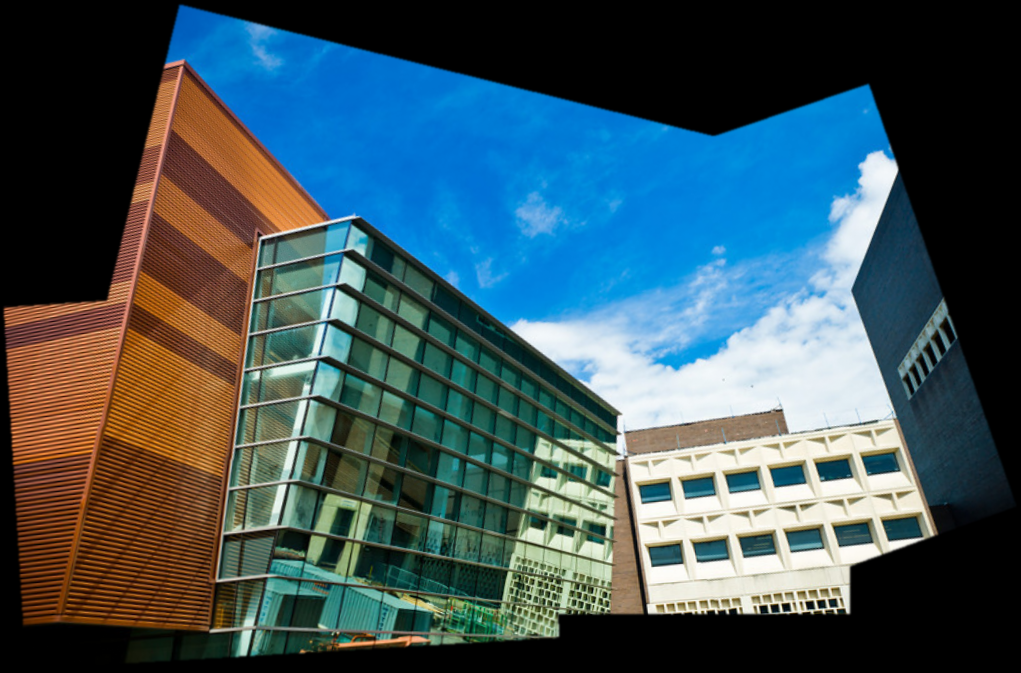
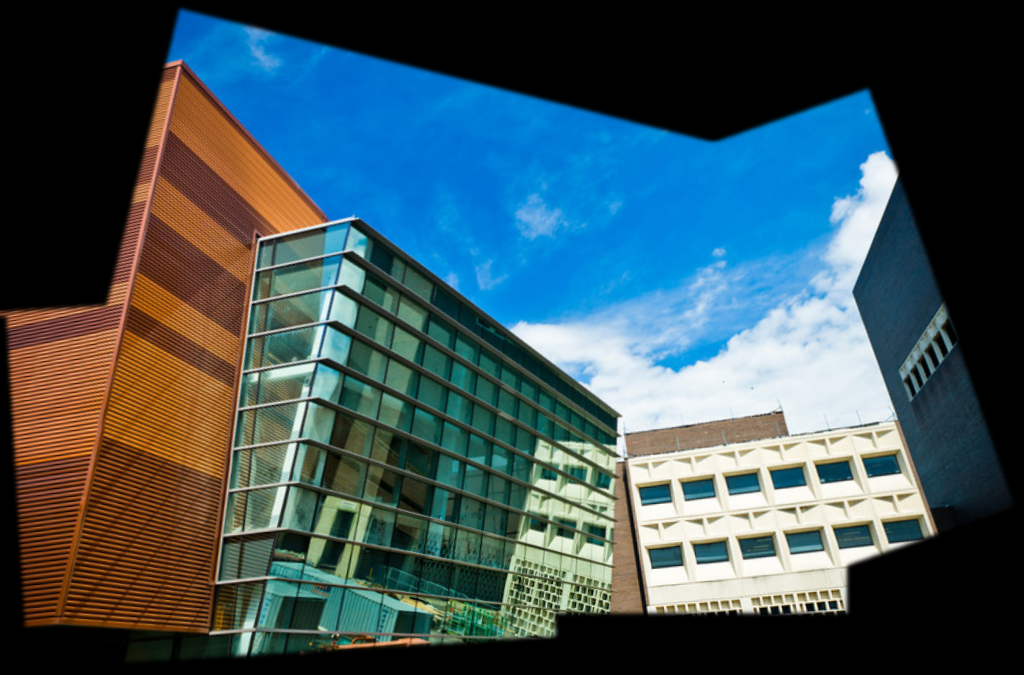
Swapped to a max spanning tree. it failed, now thresholding inliers add save back again

diff --git a/stitching.py b/stitching.py
@@ -229,8 +229,6 @@ def panorama(imgs: Dict[str, torch.Tensor]):
     max_h = 0
     max_w = 0
     matchalgo = "lightglue" # loftr
-    # save = False
-    # load = True
     # RANSAC params
     inl_th = 1
     max_iter = 200
@@ -250,117 +248,147 @@ def panorama(imgs: Dict[str, torch.Tensor]):
         max_w = max(max_w, v.shape[3])
 
     keys = list(imgs.keys())
+    edges = []
+    save = True
+    load = True
 
-    disk = K.feature.DISK.from_pretrained("depth").to(device)
-    for k, v in imgs.items():
-        features = disk(v.to(device), pad_if_not_divisible=True)[0]
-        data[k] = {
-            "points": (features.keypoints.cpu(), features.descriptors.cpu()),
-            "matches": 0
-        }
-    del disk
+    if save or not load:
+        disk = K.feature.DISK.from_pretrained("depth").to(device)
+        for k, v in imgs.items():
+            features = disk(v.to(device), pad_if_not_divisible=True)[0]
+            data[k] = {
+                "points": (features.keypoints.cpu(), features.descriptors.cpu()),
+                "matches": 0
+            }
+        del disk
 
-    if device == torch.device("mps"):
-        torch.mps.empty_cache()
+        if device == torch.device("mps"):
+            torch.mps.empty_cache()
 
-    matcher = K.feature.match_smnn
+        matcher = K.feature.match_smnn
 
-    if matchalgo == "loftr":
-        loftr = K.feature.LoFTR(pretrained='indoor_new')
-    else:
-        lg = K.feature.LightGlue("disk").eval().to(device)
+        if matchalgo == "loftr":
+            loftr = K.feature.LoFTR(pretrained='indoor_new')
+        else:
+            lg = K.feature.LightGlue("disk").eval().to(device)
 
-    ransac = K.geometry.RANSAC("homography", inl_th=inl_th, max_iter=max_iter, confidence=confidence, max_lo_iters=max_lo_iters)#.to(device)
-    print("descriptors done")
-    with torch.no_grad():
-        for i in range(len(keys)):
-            # if not save and load:
-            #     print("skipping ransac")
-            #     break
-            for j in range(i + 1, len(keys)):
+        ransac = K.geometry.RANSAC("homography", inl_th=inl_th, max_iter=max_iter, confidence=confidence, max_lo_iters=max_lo_iters)#.to(device)
+        print("descriptors done")
 
-                k1 = keys[i]
-                k2 = keys[j]
-                k1keypoints, k1descriptors = data[k1]["points"]
-                k2keypoints, k2descriptors = data[k2]["points"]
+        with torch.no_grad():
+            for i in range(len(keys)):
+                for j in range(i + 1, len(keys)):
 
-                # k1d = data[k1]["dedode"][2].squeeze(0)
-                # k2d = data[k2]["dedode"][2].squeeze(0)
+                    k1 = keys[i]
+                    k2 = keys[j]
+                    k1keypoints, k1descriptors = data[k1]["points"]
+                    k2keypoints, k2descriptors = data[k2]["points"]
 
-                match = matcher(k1descriptors, k2descriptors)
+                    # k1d = data[k1]["dedode"][2].squeeze(0)
+                    # k2d = data[k2]["dedode"][2].squeeze(0)
 
-                match_count = match[0].shape[0]
-                data[k1]["matches"] += match_count
-                data[k2]["matches"] += match_count
+                    match = matcher(k1descriptors, k2descriptors)
 
-                if match_count > 30:
-                    overlap[i, j] = 1
-                    overlap[j, i] = 1
-                    if matchalgo == "loftr":
-                        # print(f"\r{k1}, {k2} LoFTR starting. Prelim matches: {match_count}, img shape: {imgs[k1].shape}", end="", flush=True)
+                    match_count = match[0].shape[0]
+                    data[k1]["matches"] += match_count
+                    data[k2]["matches"] += match_count
+                    if match_count > 30:
+                        overlap[i, j] = 1
+                        overlap[j, i] = 1
+                        if matchalgo == "loftr":
+                            # print(f"\r{k1}, {k2} LoFTR starting. Prelim matches: {match_count}, img shape: {imgs[k1].shape}", end="", flush=True)
 
-                        inputdict = {
-                            "image0": K.color.rgb_to_grayscale(imgs[k1]),
-                            "image1": K.color.rgb_to_grayscale(imgs[k2])
-                        }
-                        points = loftr(inputdict)
-                        # print(f"\r{k1}, {k2} RANSAC starting. LoFTR Matches: {points['keypoints0'].shape}{'':>20}",  end="", flush=True)
+                            inputdict = {
+                                "image0": K.color.rgb_to_grayscale(imgs[k1]),
+                                "image1": K.color.rgb_to_grayscale(imgs[k2])
+                            }
+                            points = loftr(inputdict)
+                            # print(f"\r{k1}, {k2} RANSAC starting. LoFTR Matches: {points['keypoints0'].shape}{'':>20}",  end="", flush=True)
 
-                        homo = ransac(points["keypoints0"], points["keypoints1"])
+                            homo = ransac(points["keypoints0"], points["keypoints1"])
 
-                        # homo = ransac(points["keypoints0"].to(device), points["keypoints1"].to(device))
-                        # print(f"\r{k1}, {k2} RANSAC Finished. LoFTR matches: {points['keypoints0'].shape}, RANSAC inliers: {homo[1].sum()}",  end="", flush=True)
-                        # print()
+                            # homo = ransac(points["keypoints0"].to(device), points["keypoints1"].to(device))
+                            # print(f"\r{k1}, {k2} RANSAC Finished. LoFTR matches: {points['keypoints0'].shape}, RANSAC inliers: {homo[1].sum()}",  end="", flush=True)
+                            # print()
 
-                        data[k1][k2] = torch.linalg.inv(homo[0].cpu())
-                        data[k2][k1] = homo[0].cpu()
-                    else:
-                        # print(f"\r{k1}, {k2} LightGlue starting. Prelim matches: {match_count}, img shape: {imgs[k1].shape}", end="", flush=True)
+                            data[k1][k2] = torch.linalg.inv(homo[0].cpu())
+                            data[k2][k1] = homo[0].cpu()
+                        else:
+                            # print(f"\r{k1}, {k2} LightGlue starting. Prelim matches: {match_count}, img shape: {imgs[k1].shape}", end="", flush=True)
 
 
-                        inputdict = {
-                            "image0": {"keypoints": k1keypoints.unsqueeze(0).to(device), "descriptors": k1descriptors.unsqueeze(0).to(device), "image_size": torch.tensor([[imgs[k1].shape[3], imgs[k1].shape[2]]], device=device)},
-                            "image1": {"keypoints": k2keypoints.unsqueeze(0).to(device), "descriptors": k2descriptors.unsqueeze(0).to(device), "image_size": torch.tensor([[imgs[k2].shape[3], imgs[k2].shape[2]]], device=device)}
-                        }
+                            inputdict = {
+                                "image0": {"keypoints": k1keypoints.unsqueeze(0).to(device), "descriptors": k1descriptors.unsqueeze(0).to(device), "image_size": torch.tensor([[imgs[k1].shape[3], imgs[k1].shape[2]]], device=device)},
+                                "image1": {"keypoints": k2keypoints.unsqueeze(0).to(device), "descriptors": k2descriptors.unsqueeze(0).to(device), "image_size": torch.tensor([[imgs[k2].shape[3], imgs[k2].shape[2]]], device=device)}
+                            }
 
-                        out = lg(inputdict)
-                        match = out["matches"][0].cpu()
+                            out = lg(inputdict)
+                            match = out["matches"][0].cpu()
 
-                        k1matches = k1keypoints[match[:, 0]]
-                        k2matches = k2keypoints[match[:, 1]]
+                            k1matches = k1keypoints[match[:, 0]]
+                            k2matches = k2keypoints[match[:, 1]]
 
-                        # print(f"\r{k1}, {k2} LightGlue Finished. LightGlue matches: {k2matches.shape[0]}, img shape: {imgs[k1].shape}{'':>20}",  end="", flush=True)
+                            # print(f"\r{k1}, {k2} LightGlue Finished. LightGlue matches: {k2matches.shape[0]}, img shape: {imgs[k1].shape}{'':>20}",  end="", flush=True)
 
-                        homo = ransac(k1matches, k2matches)
+                            homo = ransac(k1matches, k2matches)
 
-                        # homo = ransac(k1matches.to(device), k2matches.to(device))
-                        # print(f"\r{k1}, {k2} RANSAC Finished. LightGlue matches: {k2matches.shape[0]}, RANSAC inliers: {homo[1].sum()}, img shape: {imgs[k1].shape}",  end="", flush=True)
-                        # print()
-                        data[k1][k2] = torch.linalg.inv(homo[0].cpu())
-                        data[k2][k1] = homo[0].cpu()
-            # torch.save(data, 'data/data.pth')
-    print("Ransac Done")
+                            # homo = ransac(k1matches.to(device), k2matches.to(device))
+                            print(f"\r{k1}, {k2} RANSAC Finished. LightGlue matches: {k2matches.shape[0]}, RANSAC inliers: {homo[1].sum()}, Prelim matches: {match_count}, img shape: {imgs[k1].shape}",  end="", flush=True)
+                            print()
+                            if homo[1].sum().cpu() < 150:
+                                continue
+                            data[k1][k2] = torch.linalg.inv(homo[0].cpu())
+                            data[k2][k1] = homo[0].cpu()
+                            edges.append((k1, k2, homo[1].sum().cpu()))
 
-    del matcher
-    if matchalgo == "loftr":
-        del loftr
-    else:
-        del lg
-    if device == torch.device("mps"):
-        torch.mps.empty_cache()
+        torch.save(data, "data/data.pth")
+        torch.save(overlap, "data/overlap.pth")
+        torch.save(edges, "data/edges.pth")
 
-    # if load:
-    #     data = torch.load('data/data.pth')
+        del matcher
+        if matchalgo == "loftr":
+            del loftr
+        else:
+            del lg
+        if device == torch.device("mps"):
+            torch.mps.empty_cache()
+        print("Ransac Done")
 
+    if load or not save:
+        data = torch.load("data/data.pth")
+        overlap = torch.load("data/overlap.pth")
+        edges = torch.load("data/edges.pth")
+
+    mst = False
     ref = max(data, key=lambda l: data[l]["matches"])
+    Hsm = {ref: torch.eye(3)}
+    Hsb = {ref: torch.eye(3)}
+    print("first:", ref)
+    edges = sorted(edges, key=lambda f: f[2])
+    v = set()
+    v.add(ref)
+    while len(keys) > len(v):
+        for e in edges:
+            k1, k2, _ = e
+            if k1 in v and k2 not in v:
+                # add it
+                Hsm[k2] = Hsm[k1] @ data[k1][k2]
+                print(f"mst computing change: {k1}->{k2}")
+                v.add(k2)
+                edges.remove(e)
+                break
+            if k2 in v and k1 not in v:
+                Hsm[k1] = Hsm[k2] @ data[k2][k1]
+                print(f"mst computing change: {k2}->{k1}")
 
-    #bfs
+                v.add(k1)
+                edges.remove(e)
+                break
+
     Q = collections.deque()
     visited = set()
-    qlog = [ref]
     visited.add(ref)
     Q.append(ref)
-    Hs = {ref: torch.eye(3)}
     while Q:
         cur = Q.popleft()
         for k, v in data[cur].items(): # neighbors but skip the 2 keys and visited checks
@@ -369,10 +397,21 @@ def panorama(imgs: Dict[str, torch.Tensor]):
 
             Q.append(k)
             visited.add(k)
-            qlog.append(k)
             # compute transformations of neighbor to cur
-            homo = Hs[cur] @ data[cur][k]
-            Hs[k] = homo
+            print(f"bfs computing change: {cur}->{k}")
+
+            homo = Hsb[cur] @ data[cur][k]
+            Hsb[k] = homo
+    if mst:
+        Hs = Hsm
+    else:
+        Hs = Hsm
+
+    for i in keys:
+        if not torch.equal(Hsm[i], Hsb[i]):
+            print(f"{i} FAILED: {Hsm[i]} != {Hsb[i]} ")
+
+
     x = [0]
     y = [0]
     print("bfs done")
@@ -399,25 +438,22 @@ def panorama(imgs: Dict[str, torch.Tensor]):
     finalm = None
     print("corners warped")
     import time
+
     for k in keys:
-        start = time.perf_counter()
         H = Hs[k]
         H = (T @ H).unsqueeze(0)
         src_img = K.geometry.warp_perspective(imgs[k], H, outs)
         src_mask = K.geometry.warp_perspective(torch.ones_like(imgs[k]), H, outs)
         src_mask = (src_mask > 0.5).to(torch.float32)
-        warptime = time.perf_counter()
 
         blend_sigma = 2
         blend_filter_size = 6 * blend_sigma + 1
         # blend_filter_size = 9
 
         # src_mask = K.morphology.erosion(src_mask, torch.ones(blend_filter_size, blend_filter_size)).to(torch.float32)
-        src_mask = -torch.nn.functional.max_pool2d(-src_mask.to(device), kernel_size=blend_filter_size, stride=1, padding=blend_filter_size//2).cpu()
-        erodetime = time.perf_counter()
-        src_mask = K.filters.gaussian_blur2d(src_mask, (blend_filter_size, blend_filter_size),(blend_sigma, blend_sigma))
+        # src_mask = -torch.nn.functional.max_pool2d(-src_mask.to(device), kernel_size=blend_filter_size, stride=1, padding=blend_filter_size//2).cpu()
+        # src_mask = K.filters.gaussian_blur2d(src_mask, (blend_filter_size, blend_filter_size),(blend_sigma, blend_sigma))
 
-        blurtime = time.perf_counter()
 
         # final = torch.where(src_mask > 0.5, src_img, final)
         # src_mask = (src_mask > 0.5)
@@ -431,16 +467,12 @@ def panorama(imgs: Dict[str, torch.Tensor]):
 
         # I_blend = alpha * I_left + (1-alpha) * I_right
         final = src_mask * src_img + (1 - src_mask) * final
-        blendtime = time.perf_counter()
-        print(f"total time: {blendtime - start}, warptime: {warptime- start}, erodetime: {erodetime- warptime}, blurtime: {blurtime-erodetime} blendtime: {blendtime-blurtime}")
+        # print(f"total time: {blendtime - start}, warptime: {warptime- start}, erodetime: {erodetime- warptime}, blurtime: {blurtime-erodetime} blendtime: {blendtime-blurtime}")
 
     # better_show(*out_masks)
     # better_show(finalm, final)
     img = ready(final)
 
-    # H = (T @ homo[0]).unsqueeze(0)
-    # src_img = K.geometry.warp_perspective(t1_1, H, outs)  # change mode
-    # src_mask = K.geometry.warp_perspective(torch.ones_like(t1_1))
 
 
     return img, overlap
